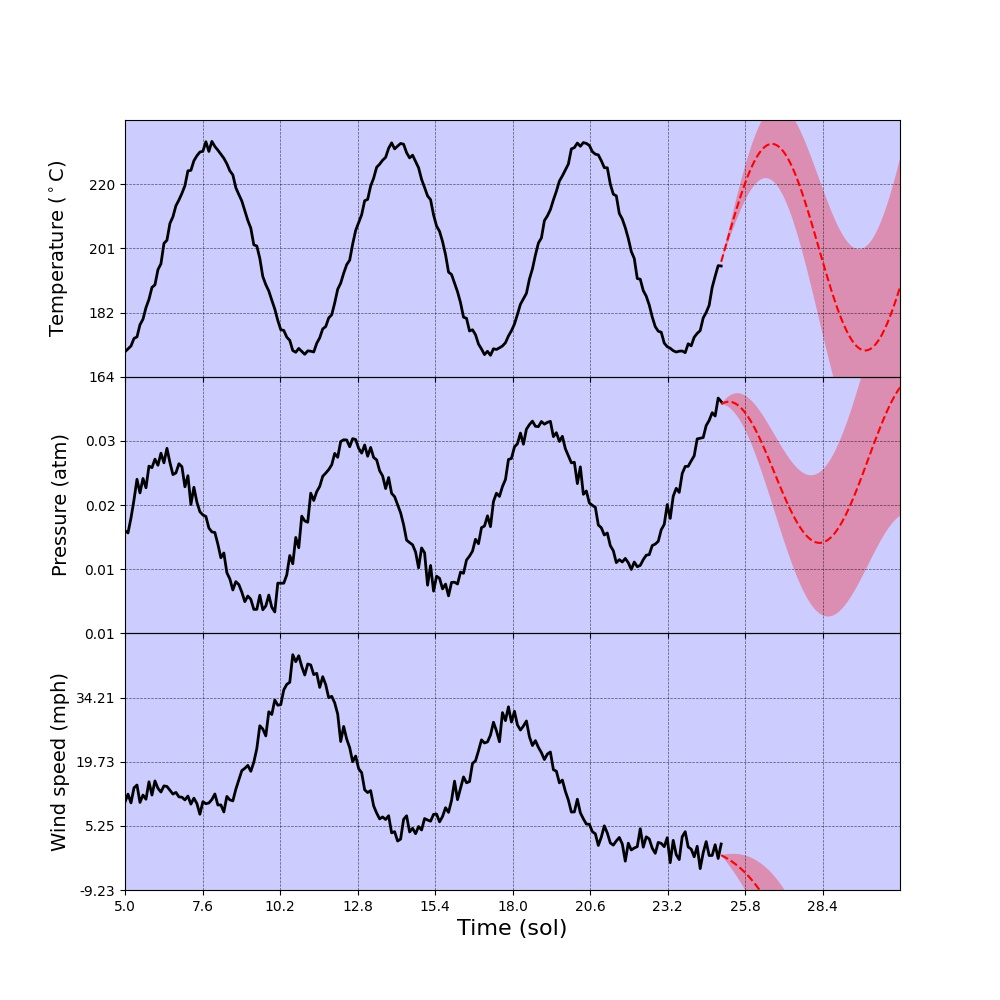
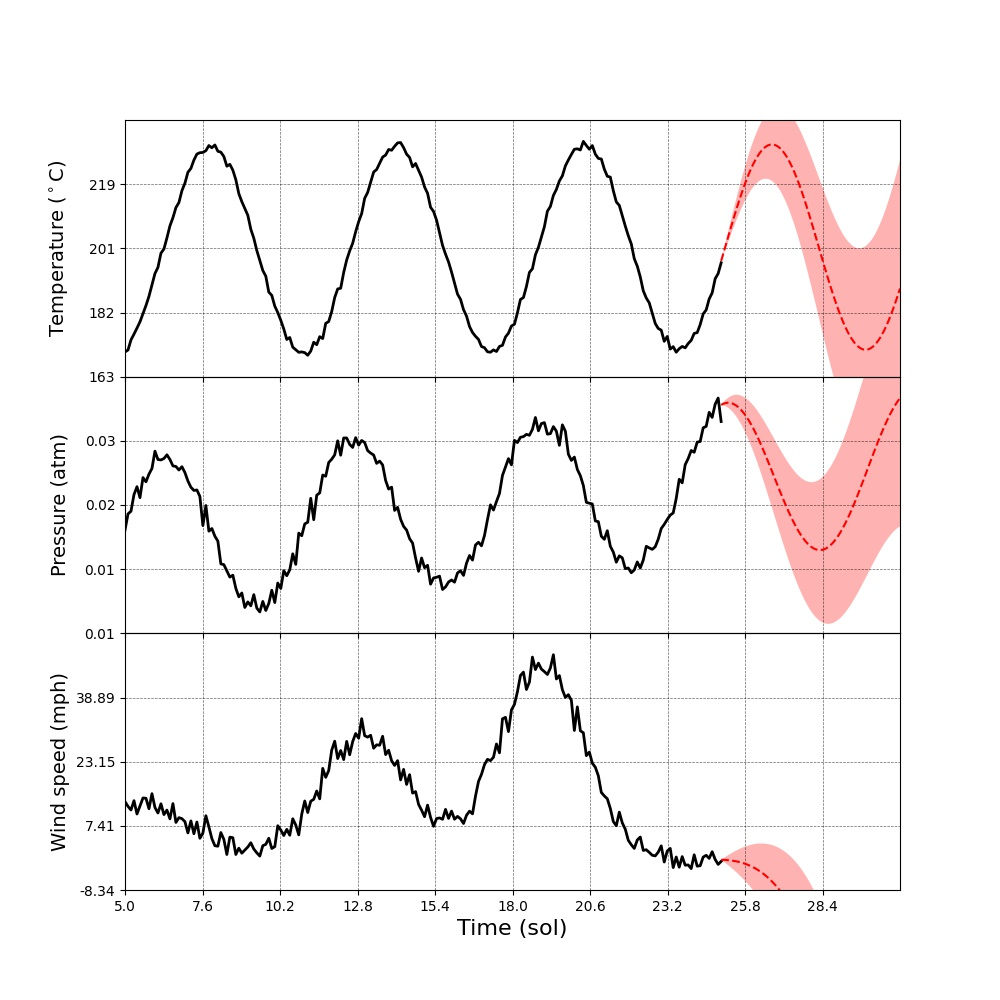
Split data and plot code, added modified plots

diff --git a/make_plots.py b/make_plots.py
@@ -1,0 +1,223 @@
+import numpy as np
+import scipy.optimize as spo
+import matplotlib.pyplot as plt
+import matplotlib as mpl
+from matplotlib import cm
+from matplotlib.ticker import PercentFormatter
+from matplotlib.patches import Patch
+import random
+import pandas as pd
+from make_data import linearmap
+
+
+BACKGROUND_COLOR = (.68,.45,.33, .5)
+ROSE_CMAP = 'cividis'
+
+# Functional form that we attempt to forecast temp and pressure with
+def fitfunc1(x, a0, a1, a2, a3, b0, b1, b2):
+    return a0 + a1*x + a2*x**2 + a3*x**3 + b0*np.sin(x*b1 + b2)
+
+# Functional form that we attempt to forecast wind speed with
+def fitfunc2(x, a0, a1, a2, a3):
+    return a0 + a1*x + a2*x**2 + a3*x**3
+
+# Generates the plot of temp/pressure/windspeed against time
+def stack_plot(data, forecast=False, depth=.3, save=False):
+    min_time = min(data['time'])
+    max_time = max(data['time'])
+
+    # If we are attempting a forecast, extend the max time beyond the provided data
+    if forecast:
+        max_time = max_time + depth*(max_time - min_time)/2.
+
+    fig,ax = plt.subplots(ncols = 1, nrows = 3,
+                          sharex = True,
+                          figsize=(10,10),
+                          subplot_kw=dict(xlim=(min_time,max_time)),
+                          gridspec_kw=dict(hspace=0))
+
+    # kwargs to pass on data plots
+    plot_kwargs = dict(color='k',
+                       linestyle='-',
+                       linewidth=2)
+
+    # Plotting temperature
+    ax[0].plot(data['time'], data['temp'], **plot_kwargs)
+    ax[0].set_ylabel(r"Temperature ($^\circ$C)", fontsize=14)
+    ax[0].yaxis.set_major_formatter(mpl.ticker.StrMethodFormatter('{x:,.0f}'))
+
+    # Plotting pressure
+    ax[1].plot(data['time'], data['pressure'], **plot_kwargs)
+    ax[1].set_ylabel("Pressure (atm)", fontsize=14)
+    ax[1].yaxis.set_major_formatter(mpl.ticker.StrMethodFormatter('{x:,.2f}'))
+
+    # Plotting wind speed
+    ax[2].plot(data['time'], data['windspeed'], **plot_kwargs)
+    ax[2].set_ylabel("Wind speed (mph)", fontsize=14)
+    ax[2].yaxis.set_major_formatter(mpl.ticker.StrMethodFormatter('{x:,.2f}'))
+
+    # Setting time ticks and labelling x-axis
+    x_ticks = [linearmap([0, 10],[min_time,max_time],i) for i in range(0,10)]
+    ax[2].set_xticks(x_ticks)
+    ax[2].set_xlabel("Time (sol)", fontsize=16)
+
+    # kwargs to pass to grid lines
+    tickline_kwargs = dict(color='k',
+                           linestyle='--',
+                           linewidth=.5,
+                           alpha=.6)
+    # Vertical grid lines
+    for x in x_ticks:
+        ax[0].axvline(x, **tickline_kwargs)
+        ax[1].axvline(x, **tickline_kwargs)
+        ax[2].axvline(x, **tickline_kwargs)
+
+    s = .2 # Scale to set margin between data points and borders of graphs
+    for col in data.columns[1:-1]:
+        n = data.columns.get_loc(col) - 1
+        min_col = min(data[col])
+        max_col = max(data[col])
+
+        # Adding margin
+        delta = s/2.*(max_col - min_col)
+        min_yax = min_col - delta
+        max_yax = max_col + delta
+
+        # Setting y-ticks for this ax
+        y_ticks = [linearmap([0, 4],[min_yax,max_yax],i) for i in range(0,4)]
+        ax[n].set_yticks(y_ticks)
+
+        # Horizontal grid lines
+        for y in y_ticks:
+            ax[n].axhline(y, **tickline_kwargs)
+            ax[n].set_ylim(min_yax, max_yax)
+
+        # Setting background color
+        ax[n].patch.set_facecolor('k')
+        ax[n].patch.set_alpha(.2)
+
+
+    # Attempt to forecast data
+    if forecast:
+        # Setup
+        N = len(data['time'])
+        fit_data = data[:][3*N//4:]
+        t = np.linspace(data['time'].iloc[-1], max_time, 100)
+
+        # Do forecast on temp
+        temp_params,cov = spo.curve_fit(fitfunc1, data['time'], data['temp'])
+        temp_fit = fitfunc1(t, *temp_params)
+        scale = .1*max(data['temp'] - min(data['temp']))
+        ax[0].fill_between(t, temp_fit - scale*(t[0] - t), temp_fit + scale*(t[0] - t),
+                           facecolor='r',
+                           alpha=.3)
+        ax[0].plot(t, temp_fit, 'r--')
+
+        # Do forecast on pressure
+        pressure_params,cov = spo.curve_fit(fitfunc1, data['time'], data['pressure'])
+        pressure_fit = fitfunc1(t, *pressure_params)
+        scale = .1*max(data['pressure'] - min(data['pressure']))
+        ax[1].fill_between(t, pressure_fit - scale*(t[0] - t), pressure_fit + scale*(t[0] - t),
+                           facecolor='r',
+                           alpha=.3)
+        ax[1].plot(t, pressure_fit, 'r--')
+
+        # Do forecast on pressure
+        speed_params,cov = spo.curve_fit(fitfunc2, data['time'][3*N//4:], data['windspeed'][3*N//4:])
+        speed_fit = fitfunc2(t, *speed_params)
+        scale = .1*max(data['windspeed'] - min(data['windspeed']))
+        ax[2].fill_between(t, speed_fit - scale*(t[0] - t), speed_fit + scale*(t[0] - t),
+                           facecolor='r',
+                           alpha=.3)
+        ax[2].plot(t, speed_fit, 'r--')
+
+
+
+    fig.align_ylabels()
+    fig.patch.set_alpha(0.)
+
+    # Either save or display the figure
+    if save:
+        plt.savefig("stackplot.jpeg", format='jpeg', transparent='True')
+    else:
+        plt.show()
+
+    plt.close()
+
+# Make wind rose plot
+def windrose(data, save=False):
+    fig, ax = plt.subplots(nrows=1, ncols=1,
+                           figsize=(10,10),
+                           subplot_kw=dict(projection='polar'))
+
+    # Loading data (and converting winddirection to radians)
+    wdir = np.pi/180.*data['winddirection']
+    wspeed = data['windspeed']
+
+    # Setting bin parameters
+    N = len(wspeed)
+    ndirbins = 16
+    width = 2*np.pi/ndirbins
+    dirbins = np.arange(0, 2*np.pi, width)
+
+    nspeedbins = 4
+    speedbins = np.linspace(0, max(wspeed), nspeedbins+1)
+    cmap = plt.cm.get_cmap(ROSE_CMAP)
+
+    # Iterate backwards through speedbins
+    for n in np.flip(range(1, nspeedbins+1)):
+        speed = speedbins[n]
+
+        # Binning data
+        counts, bins = np.histogram(wdir[wspeed < speed], bins=dirbins)
+        radii = 100.*counts/N
+
+        # Plotting data
+        ax.bar(bins[:-1], radii, align='edge', color=cmap((n-1)/(nspeedbins-1)), width=width)
+
+
+    # Setting tick properties
+    ax.set_xticks(dirbins)
+    dirticks = ["E", "ENE", "NE", "NNE", "N", "NNW", "NW", "WNW", 
+                "W", "WSW", "SW", "SSW", "S", "ESE", "SE", "ESE"]
+    ax.set_xticklabels(dirticks, fontsize=20)
+    ax.tick_params(pad=12)
+
+    ax.yaxis.set_major_formatter(PercentFormatter(decimals=0))
+    ax.set_yticks(ax.get_yticks()[::2])
+    for tick in ax.get_yticklabels():
+        tick.set_ha('left')
+        tick.set_color('white')
+        tick.set_fontsize(15)
+    ax.set_ylim(0, ax.get_ylim()[1]*1.1)
+    ax.set_rlabel_position(0)
+
+    # Background color
+    ax.patch.set_facecolor('k')
+    ax.patch.set_alpha(.8)
+
+    fig.patch.set_alpha(0.)
+
+
+    legend_elements = []
+    for n in np.flip(range(1, nspeedbins+1)):
+        legend_elements.append(Patch(facecolor=cmap((n-1)/(nspeedbins-1)),
+                               edgecolor='k',
+                               label='<{:.1f} mph'.format(speedbins[n])))
+    plt.legend(handles=legend_elements, 
+               bbox_to_anchor=(1,1), 
+               bbox_transform=plt.gcf().transFigure,
+               fontsize=18,
+               frameon=False)
+
+    # Either save or display the figure
+    if save:
+        plt.savefig("windrose.jpeg", format='jpeg')
+    else:
+        plt.show()
+
+    plt.close()
+
+
+
+

diff --git a/make_data.py b/make_data.py
@@ -1,0 +1,90 @@
+import numpy as np
+import random
+import pandas as pd
+import requests
+import json
+
+# Linearly takes x on [a,b] to [c,d]
+def linearmap(ab, cd, x):
+    a,b = ab[0],ab[1]
+    c,d = cd[0],cd[1]
+    return ((d-c)*x +(b*c - d*a))/(b - a)
+
+# Gathering data from NASA Insight weather API
+# Pass value of True for line graph data; False for windrose data
+def gather_data(choice):
+    api_key = "AkPFZ2oNwdefoiJ9R94G6JglHEj79MrqLPWBihVf"
+    nasa_data = requests.get("https://api.nasa.gov/insight_weather/?api_key=" + api_key + "&feedtype=json&ver=1.0").json()
+    print(nasa_data)
+    sols = nasa_data["sol_keys"]
+
+    # Data for line charts
+    line_time = []
+    line_temp = []
+    line_pressure = []
+    line_windspeed = []
+
+    # Data for windrose chart
+    rose_sol = []
+    rose_solHour = []
+    rose_windcount = []
+    rose_winddirection = []
+
+    # Loop through each sol to gather data for said sol
+    for i in range(len(nasa_data["sol_keys"])-1):
+        line_time.append(int(nasa_data["sol_keys"][i]))
+        line_temp.append(float(nasa_data[str(line_time[i])]['AT']['av']))
+        line_pressure.append(float(nasa_data[str(line_time[i])]['PRE']['av']))
+        line_windspeed.append(float(nasa_data[str(line_time[i])]['HWS']['av']))
+        # Loop through hourly data of sol for windrose data
+        for j in range(len(nasa_data[str(line_time[i])]['WD'])-1):
+            tempHours = list(nasa_data[str(line_time[i])]['WD'].keys()) # Gathers keys of hours from sol to use later for access
+            rose_sol.append(int(nasa_data["sol_keys"][i]))
+            rose_solHour.append(tempHours[j])
+            rose_windcount.append(int(nasa_data[str(line_time[i])]['WD'][tempHours[j]]['ct']))
+            rose_winddirection.append(int(nasa_data[str(line_time[i])]['WD'][tempHours[j]]['compass_degrees']))
+
+    line_data = pd.DataFrame(data={'time':line_time,
+                                  'temp':line_temp,
+                                  'pressure':line_pressure,
+                                  'windspeed':line_windspeed})
+    rose_data = pd.DataFrame(data={'sol':rose_sol,
+                                  'solHour':rose_solHour,
+                                  'windcount':rose_windcount,
+                                  'winddirection':rose_winddirection})
+
+    if choice == True:
+        return line_data
+    else:
+        return rose_data
+
+
+# Generating temporary placeholder data; to be replaced!
+def placeholder_data():
+    time = np.linspace(5, 25, 200)
+    temp = 200. + 30.*np.sin(time) + np.random.normal(0, .8, 200) + 0.04*time
+    pressure = .015 + 0.01*np.sin(time + 1.5) + np.random.normal(0, .0008, 200) + 0.0004*time
+    windspeed = np.random.normal(0, 1.6, len(time))
+    for i in range(np.random.randint(2,6)):
+        windspeed += random.randrange(3, 50)*np.exp(-(time - random.randrange(0, 20))**2/4.)
+
+    winddirection = np.zeros_like(time)
+    d = 0.
+    for i in range(0, 200):
+        winddirection[i] += d
+        d += np.random.normal(0, 1.5)
+
+    max_dir = np.max(winddirection) # a
+    min_dir = np.min(winddirection) # b
+    max_angle = 360.
+    min_angle = 0.
+
+    winddirection = linearmap([min_dir,max_dir],[0., 360], winddirection)
+
+    data = pd.DataFrame(data={'time':time,
+                              'temp':temp,
+                              'pressure':pressure,
+                              'windspeed':windspeed,
+                              'winddirection':winddirection})
+    return data
+
